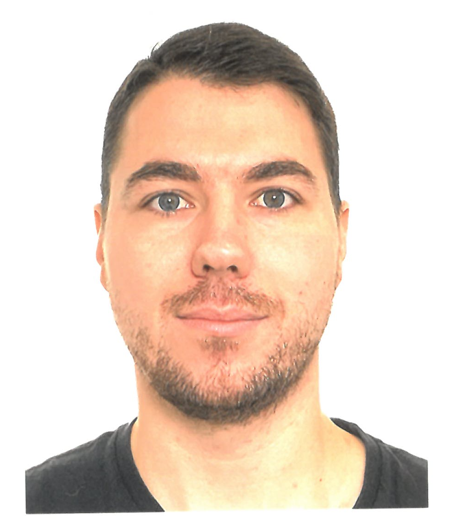
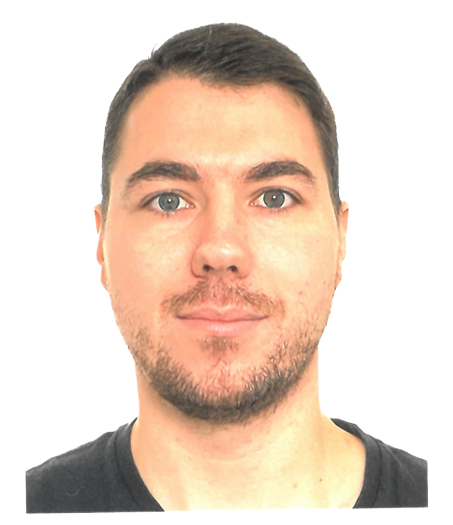
Update testimonials and improve layout; modify social links and image assets

diff --git a/index.html b/index.html
@@ -74,13 +74,13 @@
 
       <div class="hero-socials reveal reveal-left" style="--reveal-delay: .25s">
         <span class="accent-line" aria-hidden="true"></span>
-        <a href="https://github.com/your-username" target="_blank" rel="noopener noreferrer" aria-label="GitHub">
+        <a href="https://github.com/LeonWeigang-Dev" target="_blank" rel="noopener noreferrer" aria-label="GitHub">
           <img src="assets/hero_section/github_icon.svg" alt="">
         </a>
-        <a href="mailto:your-email@example.com" aria-label="Email">
+        <a href="mailto:orlando.maxim@web.de" aria-label="Email">
           <img src="assets/hero_section/mail_icon.svg" alt="">
         </a>
-        <a href="https://www.linkedin.com/in/your-profile/" target="_blank" rel="noopener noreferrer"
+        <a href="https://www.linkedin.com/in/leon-weigang-89b358378/" target="_blank" rel="noopener noreferrer"
           aria-label="LinkedIn">
           <img src="assets/hero_section/linkedin_icon.svg" alt="">
         </a>
@@ -190,10 +190,11 @@
               alt="El Pollo Loco project preview" data-i18n-alt="altElPolloLoco">
             <div class="project-hover project-overlay">
               <div class="project-actions">
-                <a class="project-button project-button-github" href="https://example.com/el-pollo-loco-github"
+                <a class="project-button project-button-github" href="https://github.com/LeonWeigang-Dev/el_pollo_loco"
                   target="_blank" rel="noopener noreferrer" data-i18n="github">Github</a>
-                <a class="project-button project-button-live" href="https://example.com/el-pollo-loco"
-                  target="_blank" rel="noopener noreferrer" data-i18n="liveTest">Live test</a>
+                <a class="project-button project-button-live"
+                  href="https://leonweigang.developerakademie.net/el_pollo_loco/" target="_blank"
+                  rel="noopener noreferrer" data-i18n="liveTest">Live test</a>
               </div>
               <div class="project-info">
                 <h3 data-i18n="projectElPolloLocoTitle">El Pollo Loco</h3>
@@ -205,13 +206,13 @@
           </article>
 
           <article class="project-card reveal reveal-up" style="--reveal-delay: .1s">
-            <img class="project-image" src="assets/portfolio_section/join_portfolio.png"
-              alt="JOIN project preview" data-i18n-alt="altJoin">
+            <img class="project-image" src="assets/portfolio_section/join_portfolio.png" alt="JOIN project preview"
+              data-i18n-alt="altJoin">
             <div class="project-hover project-overlay">
               <div class="project-actions">
-                <a class="project-button project-button-github" href="https://example.com/join-github"
+                <a class="project-button project-button-github" href="https://github.com/LeonWeigang-Dev/join"
                   target="_blank" rel="noopener noreferrer" data-i18n="github">Github</a>
-                <a class="project-button project-button-live" href="https://example.com/join"
+                <a class="project-button project-button-live" href="https://leonweigang.developerakademie.net/join/"
                   target="_blank" rel="noopener noreferrer" data-i18n="liveTest">Live test</a>
               </div>
               <div class="project-info">
@@ -269,7 +270,8 @@
         <article class="testimonial-card" aria-live="polite">
           <p data-testimonial-text>Working with Leon was highly constructive. He combines clear communication with a
             strong attention to detail. He demonstrated exceptional commitment to the project, regularly going the extra
-            mile to resolve critical hurdles. Leon was also responsible for the project's most substantial core component,
+            mile to resolve critical hurdles. Leon was also responsible for the project's most substantial core
+            component,
             which he mastered with outstanding technical skill and efficiency.</p>
           <div class="testimonial-author-line">
             <span></span>
@@ -350,11 +352,11 @@
       </div>
       <p>© Leon Weigang 2026</p>
       <div class="footer-socials">
-        <a href="https://github.com/your-username" target="_blank" rel="noopener noreferrer" aria-label="GitHub"><img
+        <a href="https://github.com/LeonWeigang-Dev" target="_blank" rel="noopener noreferrer" aria-label="GitHub"><img
             src="assets/footer_section/github_icon.svg" alt=""></a>
-        <a href="mailto:your-email@example.com" aria-label="Email"><img src="assets/footer_section/mail_icon.svg"
+        <a href="mailto:orlando.maxim@web.de" aria-label="Email"><img src="assets/footer_section/mail_icon.svg"
             alt=""></a>
-        <a href="https://www.linkedin.com/in/your-profile/" target="_blank" rel="noopener noreferrer"
+        <a href="https://www.linkedin.com/in/leon-weigang-89b358378/" target="_blank" rel="noopener noreferrer"
           aria-label="LinkedIn"><img src="assets/footer_section/linkedIn_icon.svg" alt=""></a>
       </div>
     </div>

diff --git a/style.css b/style.css
@@ -755,6 +755,7 @@ textarea:focus-visible {
 }
 
 @media (hover: hover) and (pointer: fine) {
+
     .project-card:hover .project-hover,
     .project-card:focus-within .project-hover {
         opacity: 1;
@@ -1229,6 +1230,10 @@ textarea:focus-visible {
         max-height: 420px;
     }
 
+    .quote-mark {
+        justify-content: center;
+    }
+
     .about-grid,
     .skills-grid {
         gap: 38px
@@ -1264,7 +1269,7 @@ textarea:focus-visible {
 
     .about-bg-green img {
         position: absolute;
-        bottom: 600px;
+        bottom: 400px;
         left: -250px;
         max-height: 1200px;
         max-width: 1500px;
@@ -1273,7 +1278,7 @@ textarea:focus-visible {
         right: -40px;
     }
 
-    .about{
+    .about {
         z-index: 3;
     }
 
@@ -1292,6 +1297,10 @@ textarea:focus-visible {
     .desktop-nav,
     .header-right .language-switch {
         display: none
+    }
+
+    .about-copy h2 {
+        z-index: 900 !important;
     }
 
     .menu-toggle {
@@ -1383,7 +1392,7 @@ textarea:focus-visible {
         padding-bottom: 0;
     }
 
-    .about-photo  {
+    .about-photo {
         z-index: 2 !important;
     }
 
@@ -1422,7 +1431,7 @@ textarea:focus-visible {
         grid-row: 1;
     }
 
-    .skills-copy > p:first-of-type {
+    .skills-copy>p:first-of-type {
         grid-row: 2;
     }
 
@@ -1434,15 +1443,15 @@ textarea:focus-visible {
         padding-left: 0;
     }
 
-    .skills-copy > h3 {
+    .skills-copy>h3 {
         grid-row: 4;
     }
 
-    .skills-copy > p:nth-of-type(2) {
+    .skills-copy>p:nth-of-type(2) {
         grid-row: 5;
     }
 
-    .skills-copy > .cta-button {
+    .skills-copy>.cta-button {
         grid-row: 6;
         justify-self: center;
     }
@@ -1464,7 +1473,8 @@ textarea:focus-visible {
     }
 
     .quote-mark {
-        font-size: 68px
+        font-size: 68px;
+        display: none;
     }
 
     .testimonial-card {
@@ -1599,8 +1609,7 @@ textarea:focus-visible {
     }
 
     .skills-bg-image {
-        left: -120px;
-        width: 850px
+        width: 100%;
     }
 
     .skills-list {
@@ -1719,8 +1728,8 @@ textarea:focus-visible {
     }
 
     .back-to-top {
-        right: 0;
-        bottom: 24px
+        right: 50;
+        bottom: -10px
     }
 
     .footer-logo {
@@ -1745,6 +1754,15 @@ textarea:focus-visible {
         font-size: 24px
     }
 
+    .skill-item img {
+        width: 48px;
+        height: 48px
+    }
+
+    .skill-item strong {
+        font-size: 14px
+    }
+
     .skills-list {
         grid-template-columns: repeat(4, minmax(0, 1fr))
     }
@@ -1766,10 +1784,26 @@ textarea:focus-visible {
     }
 }
 
+@media (min-width: 1560px) {
+    .skills-bg-image {
+        top: -30% !important;
+    }
+}
+
 /* Keep the artwork centered and contained on very wide desktop screens. */
 @media (min-width: 1440px) {
     .page-container {
         width: min(calc(100% - 64px), var(--max));
+    }
+
+    .skills-bg-image {
+        top: -24%;
+    }
+
+    .about-bg-green {
+        display: flex;
+        width: 100%;
+        right: -50%;
     }
 }
 
@@ -1901,7 +1935,7 @@ textarea:focus-visible {
         margin-bottom: 0;
     }
 
-    .skills-copy > p:first-of-type {
+    .skills-copy>p:first-of-type {
         grid-row: 2;
         margin-bottom: 0;
     }
@@ -1914,18 +1948,18 @@ textarea:focus-visible {
         padding-left: 0;
     }
 
-    .skills-copy > h3 {
+    .skills-copy>h3 {
         grid-row: 4;
         font-size: 24px;
         margin: 0;
     }
 
-    .skills-copy > p:nth-of-type(2) {
+    .skills-copy>p:nth-of-type(2) {
         grid-row: 5;
         margin: 0;
     }
 
-    .skills-copy > .cta-button {
+    .skills-copy>.cta-button {
         grid-row: 6;
         justify-self: center;
     }

diff --git a/script.js b/script.js
@@ -222,13 +222,13 @@ const testimonials = [
   },
   {
     en: {
-      text: 'Working with Leon was reliable, collaborative and enjoyable. He is curious, learns quickly and always looks for a clean technical solution.',
+      text: 'Thanks to his exceptional dedication and perseverance, Leon has made a major contribution to the project. Even when faced with difficult problems, he kept at it – often late into the night – and impressed with his meticulous work and high standards.',
       author: 'Annika E. – Team Partner',
       role: 'YOUR PHOTO',
       image: 'assets/testimonial_section/annika.png'
     },
     de: {
-      text: 'Die Zusammenarbeit mit Leon war zuverlässig, teamorientiert und angenehm. Er lernt schnell, bleibt neugierig und sucht immer nach einer sauberen technischen Lösung.',
+      text: 'Leon hat durch seinen außergewöhnlichen Einsatz und seine Ausdauer einen großen Beitrag zum Projekt geleistet. Auch bei schwierigen Problemen blieb er dran – oft bis spät in die Nacht – und überzeugte mit sorgfältiger Arbeit und hoher Qualität.',
       author: 'Annika E. – Teampartner',
       role: 'DEIN FOTO',
       image: 'assets/testimonial_section/annika.png'
